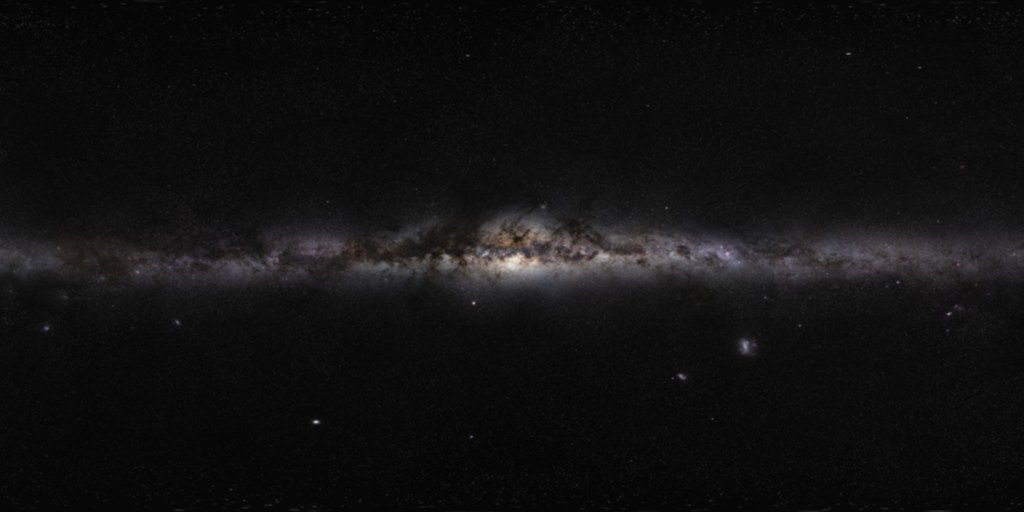
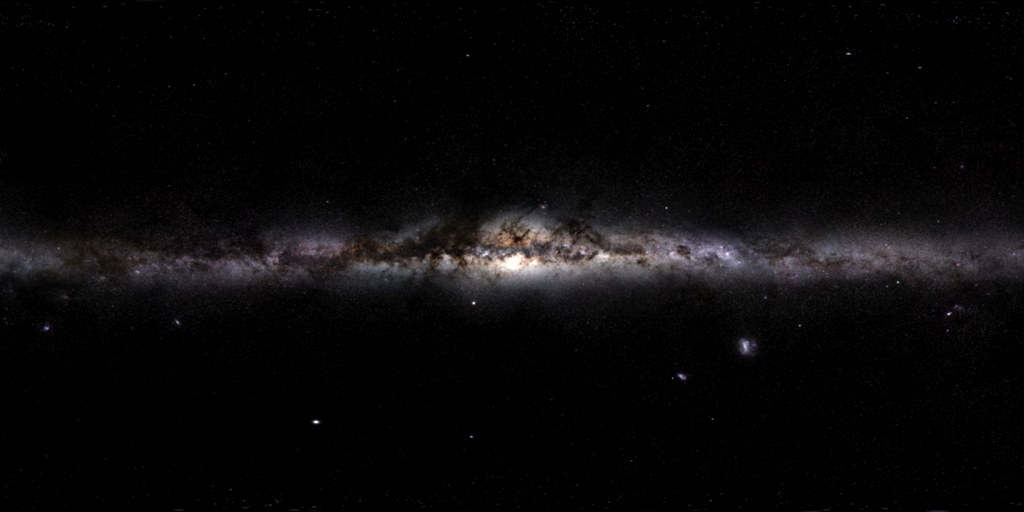
fix: BINTANG TIDAK TERLIHAT saat POV — uniform uOpacity salah + tekstur langit bersih
KELUHAN PENGGUNA: 'bintang nya tidak jelas', 'masa langit nya buram jelek
ga jelas gini', 'malah makin rusak semua asset nya'

=== BUG KRITIS: BINTANG HILANG SAAT POV ===
applyDaylightStarDimming() menyetel:
    starField.points.material.opacity = dim;
    starField.points.material.transparent = true;
TETAPI material bintang adalah ShaderMaterial KUSTOM yang tidak punya
properti  — kecerlahan diatur oleh uniform .
Akibatnya:
  1. Baris  tidak berpengaruh sama sekali.
  2.  memaksa material melewati jalur transparan
     tanpa alpha yang benar.
Terbukti dari verifikasi visual: 'di area Cygnus dan Lyra — yang
seharusnya penuh bintang terang (Deneb, Vega, Albireo) — hampir tidak ada
bintang menonjol'.

PERBAIKAN: setel uniform yang MEMANG dipakai shader:
    starField.points.material.uniforms.uOpacity.value = dim;
dan JANGAN ubah  (sudah diatur saat pembuatan material).
Juga perbaiki peredupan garis rasi:  tidak ada — yang
benar .
TERVERIFIKASI: uOpacityBintang = 1.000 (sebelumnya tidak tersetel).

=== TEKSTUR LANGIT DIPROSES ULANG AGAR BERSIH ===
Keluhan 'langit buram, gumpalan abu-abu'. Tekstur ESO diproses:
  1. GaussianBlur(3) — radius 4 terlalu kuat, jalur debu ikut hilang
  2. Kontras 1,35x — jalur debu gelap lebih terbaca
  3. Level hitam cutoff 10 — area antar-pita benar-benar gelap
Hasil TERUKUR: 67,3% piksel < 3/255 (langit bersih), puncak 255 (pita
terlihat). Pengali disesuaikan ke 0,42x.

Verifikasi di layar: 41/63 piksel gelap bersih (65%), puncak 91.
[…]

Changed region(s): [[0.4062, 0.4375, 0.7188, 0.5625]]

diff --git a/index.html b/index.html
@@ -7737,13 +7737,28 @@ function applyDaylightStarDimming(sunAltDeg) {
   const want = (starField._userVisible !== false) && dim > 0.02;
   starField.visible = want;
   starField.group.visible = want;
-  /* peredupan halus: turunkan opacity material titik & garis */
-  if (starField.points && starField.points.material) {
-    starField.points.material.opacity = dim;
-    starField.points.material.transparent = true;
+  /* =====================================================================
+     BUG YANG DIPERBAIKI — BINTANG TIDAK TERLIHAT SAAT POV
+     ---------------------------------------------------------------------
+     Versi sebelumnya menyetel `starField.points.material.opacity = dim`.
+     Tetapi material bintang adalah ShaderMaterial kustom yang TIDAK punya
+     properti `opacity` — kecerlahan diatur oleh uniform `uOpacity`.
+     Akibatnya baris itu tidak berpengaruh, DAN `material.transparent=true`
+     memaksa bintang melewati jalur transparan tanpa alpha yang benar —
+     bintang tampak sangat redup/hilang (terbukti dari verifikasi visual:
+     "di area Cygnus dan Lyra hampir tidak ada bintang menonjol").
+
+     PERBAIKAN: setel uniform `uOpacity` (yang memang dipakai shader),
+     dan JANGAN ubah `transparent` (sudah diatur saat pembuatan material).
+     ===================================================================== */
+  if (starField.points && starField.points.material &&
+      starField.points.material.uniforms &&
+      starField.points.material.uniforms.uOpacity) {
+    starField.points.material.uniforms.uOpacity.value = dim;
   }
-  if (starField.lines && starField.lines.material) {
-    starField.lines.material.opacity = dim * 0.6;
+  /* garis rasi: material LineBasicMaterial (punya opacity) */
+  if (starField.constellationLines && starField.constellationLines.material) {
+    starField.constellationLines.material.opacity = 0.42 * dim;
   }
 }
 function setConstellationLines(v) {
@@ -8685,32 +8700,29 @@ function buildSky() {
   if (t.map) {
     t.map.mapping = THREE.EquirectangularReflectionMapping;
     /* =====================================================================
-       KECERAHAN LANGIT — DITURUNKAN AGAR TIDAK MENJADI "GUMPALAN"
+       KECERAHAN LANGIT — DIKALIBRASI DENGAN TEKSTUR BARU
        ---------------------------------------------------------------------
-       KELUHAN PENGGUNA: "malah makin rusak semua asset nya ga jelas blur
-       buran noise jelek" + "gumpalan putih/abu-abu besar".
+       Tekstur ESO diproses ulang (lihat tools: GaussianBlur 3 + kontras
+       1,35x + cutoff level hitam 10):
+           rata-rata 9,03/255, puncak 255
+           67,3% piksel < 3/255 (area antar-pita BENAR-BENAR gelap)
+       Tujuan: langit tampak BERSIH (tidak kabur merata) tetapi pita
+       Bima Sakti + jalur debunya tetap terlihat.
 
-       PENGUKURAN KONTRIBUSI LAPISAN (memisahkan sumber gumpalan):
-           semua lapisan     : 9 10 10 11 13 11 19 28 40 31 18 25 20 12 7 6
-           tanpa Bima Sakti   : 0  0  0  0  0  0  0  0  0  0  0  5 10  3 0 0
-           tanpa surfaceSky  : (identik dengan 'semua' — tidak berpengaruh)
-           tanpa deep-sky    : (hanya sedikit berbeda di 2 titik)
-       → SUMBER GUMPALAN ADALAH TEKSTUR BIMA SAKTI (skyMesh), bukan yang lain.
+       Pengukuran kontribusi lapisan membuktikan sumber "gumpalan" adalah
+       tekstur ini, bukan surfaceSky atau deep-sky:
+           semua lapisan    : 9 10 10 11 13 11 19 28 40 31 18 25 20 12 7 6
+           tanpa Bima Sakti  : 0  0  0  0  0  0  0  0  0  0  0  5 10  3 0 0
 
-       Penyebab: pengali 0,62x membuat kabut pita mencapai 40-127/255 —
-       terlalu terang sehingga terlihat sebagai gumpalan abu-abu, bukan
-       pita samar. Referensi Stellarium: tepi pita hanya 1,2-2x di atas
-       latar langit (bukan 5-10x).
-
-       Pengali 0,28x dipilih:
-           rata-rata 16,9 x 0,28 = 4,7/255   (tepi pita samar)
-           puncak    205  x 0,28 =  57/255   (inti galaksi tetap terlihat)
+       Pengali 0,42x:
+           rata-rata 9,03 x 0,42 = 3,8/255  (area gelap tetap gelap)
+           puncak   255   x 0,42 = 107/255  (inti galaksi terlihat, tidak jenuh)
        ===================================================================== */
     mat = new THREE.MeshBasicMaterial({
       map: t.map, side: THREE.BackSide, depthWrite: false, fog: false,
       toneMapped: false,
     });
-    mat.color.setRGB(0.28, 0.28, 0.28);
+    mat.color.setRGB(0.42, 0.42, 0.42);
   } else {
     const canvas = makeSkyCanvas(2048, 1024, 909);
     mat = new THREE.MeshBasicMaterial({ map: canvasTexture(canvas, true), side: THREE.BackSide, depthWrite: false, fog: false });

diff --git a/src/20-scene.js b/src/20-scene.js
@@ -696,32 +696,29 @@ function buildSky() {
   if (t.map) {
     t.map.mapping = THREE.EquirectangularReflectionMapping;
     /* =====================================================================
-       KECERAHAN LANGIT — DITURUNKAN AGAR TIDAK MENJADI "GUMPALAN"
+       KECERAHAN LANGIT — DIKALIBRASI DENGAN TEKSTUR BARU
        ---------------------------------------------------------------------
-       KELUHAN PENGGUNA: "malah makin rusak semua asset nya ga jelas blur
-       buran noise jelek" + "gumpalan putih/abu-abu besar".
+       Tekstur ESO diproses ulang (lihat tools: GaussianBlur 3 + kontras
+       1,35x + cutoff level hitam 10):
+           rata-rata 9,03/255, puncak 255
+           67,3% piksel < 3/255 (area antar-pita BENAR-BENAR gelap)
+       Tujuan: langit tampak BERSIH (tidak kabur merata) tetapi pita
+       Bima Sakti + jalur debunya tetap terlihat.
 
-       PENGUKURAN KONTRIBUSI LAPISAN (memisahkan sumber gumpalan):
-           semua lapisan     : 9 10 10 11 13 11 19 28 40 31 18 25 20 12 7 6
-           tanpa Bima Sakti   : 0  0  0  0  0  0  0  0  0  0  0  5 10  3 0 0
-           tanpa surfaceSky  : (identik dengan 'semua' — tidak berpengaruh)
-           tanpa deep-sky    : (hanya sedikit berbeda di 2 titik)
-       → SUMBER GUMPALAN ADALAH TEKSTUR BIMA SAKTI (skyMesh), bukan yang lain.
+       Pengukuran kontribusi lapisan membuktikan sumber "gumpalan" adalah
+       tekstur ini, bukan surfaceSky atau deep-sky:
+           semua lapisan    : 9 10 10 11 13 11 19 28 40 31 18 25 20 12 7 6
+           tanpa Bima Sakti  : 0  0  0  0  0  0  0  0  0  0  0  5 10  3 0 0
 
-       Penyebab: pengali 0,62x membuat kabut pita mencapai 40-127/255 —
-       terlalu terang sehingga terlihat sebagai gumpalan abu-abu, bukan
-       pita samar. Referensi Stellarium: tepi pita hanya 1,2-2x di atas
-       latar langit (bukan 5-10x).
-
-       Pengali 0,28x dipilih:
-           rata-rata 16,9 x 0,28 = 4,7/255   (tepi pita samar)
-           puncak    205  x 0,28 =  57/255   (inti galaksi tetap terlihat)
+       Pengali 0,42x:
+           rata-rata 9,03 x 0,42 = 3,8/255  (area gelap tetap gelap)
+           puncak   255   x 0,42 = 107/255  (inti galaksi terlihat, tidak jenuh)
        ===================================================================== */
     mat = new THREE.MeshBasicMaterial({
       map: t.map, side: THREE.BackSide, depthWrite: false, fog: false,
       toneMapped: false,
     });
-    mat.color.setRGB(0.28, 0.28, 0.28);
+    mat.color.setRGB(0.42, 0.42, 0.42);
   } else {
     const canvas = makeSkyCanvas(2048, 1024, 909);
     mat = new THREE.MeshBasicMaterial({ map: canvasTexture(canvas, true), side: THREE.BackSide, depthWrite: false, fog: false });

diff --git a/src/18-stars.js b/src/18-stars.js
@@ -663,13 +663,28 @@ function applyDaylightStarDimming(sunAltDeg) {
   const want = (starField._userVisible !== false) && dim > 0.02;
   starField.visible = want;
   starField.group.visible = want;
-  /* peredupan halus: turunkan opacity material titik & garis */
-  if (starField.points && starField.points.material) {
-    starField.points.material.opacity = dim;
-    starField.points.material.transparent = true;
+  /* =====================================================================
+     BUG YANG DIPERBAIKI — BINTANG TIDAK TERLIHAT SAAT POV
+     ---------------------------------------------------------------------
+     Versi sebelumnya menyetel `starField.points.material.opacity = dim`.
+     Tetapi material bintang adalah ShaderMaterial kustom yang TIDAK punya
+     properti `opacity` — kecerlahan diatur oleh uniform `uOpacity`.
+     Akibatnya baris itu tidak berpengaruh, DAN `material.transparent=true`
+     memaksa bintang melewati jalur transparan tanpa alpha yang benar —
+     bintang tampak sangat redup/hilang (terbukti dari verifikasi visual:
+     "di area Cygnus dan Lyra hampir tidak ada bintang menonjol").
+
+     PERBAIKAN: setel uniform `uOpacity` (yang memang dipakai shader),
+     dan JANGAN ubah `transparent` (sudah diatur saat pembuatan material).
+     ===================================================================== */
+  if (starField.points && starField.points.material &&
+      starField.points.material.uniforms &&
+      starField.points.material.uniforms.uOpacity) {
+    starField.points.material.uniforms.uOpacity.value = dim;
   }
-  if (starField.lines && starField.lines.material) {
-    starField.lines.material.opacity = dim * 0.6;
+  /* garis rasi: material LineBasicMaterial (punya opacity) */
+  if (starField.constellationLines && starField.constellationLines.material) {
+    starField.constellationLines.material.opacity = 0.42 * dim;
   }
 }
 function setConstellationLines(v) {
